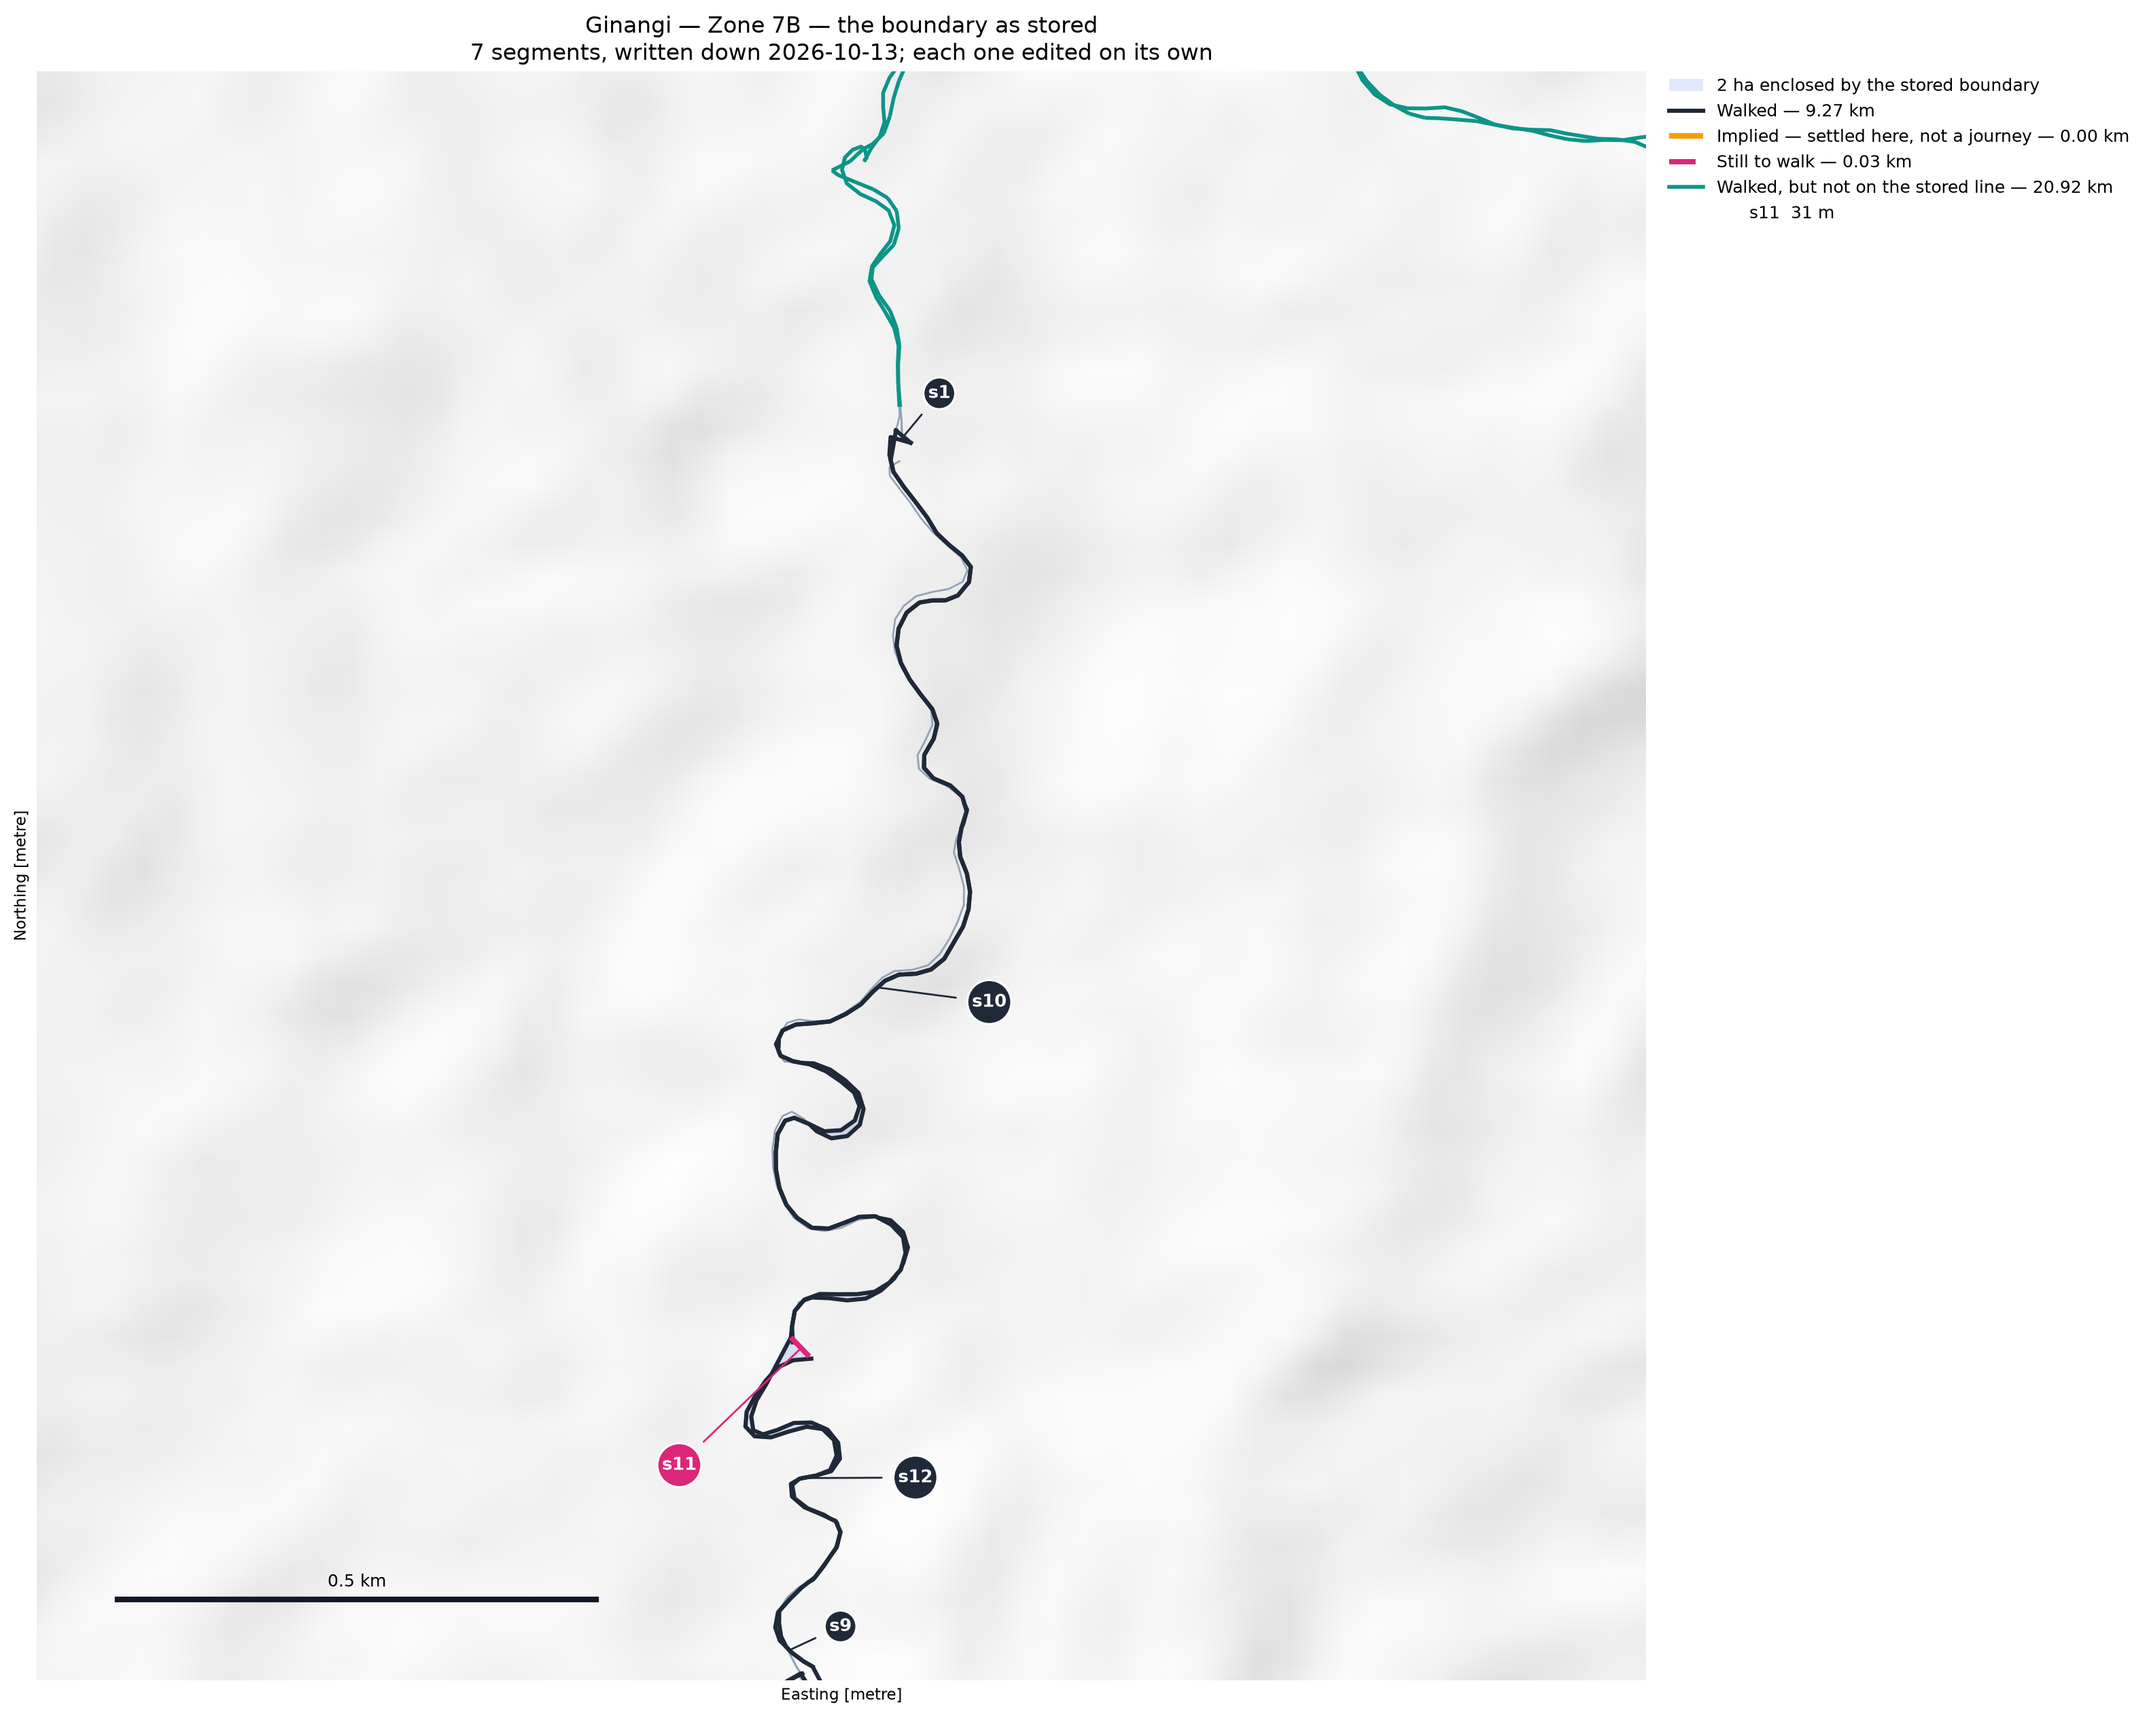
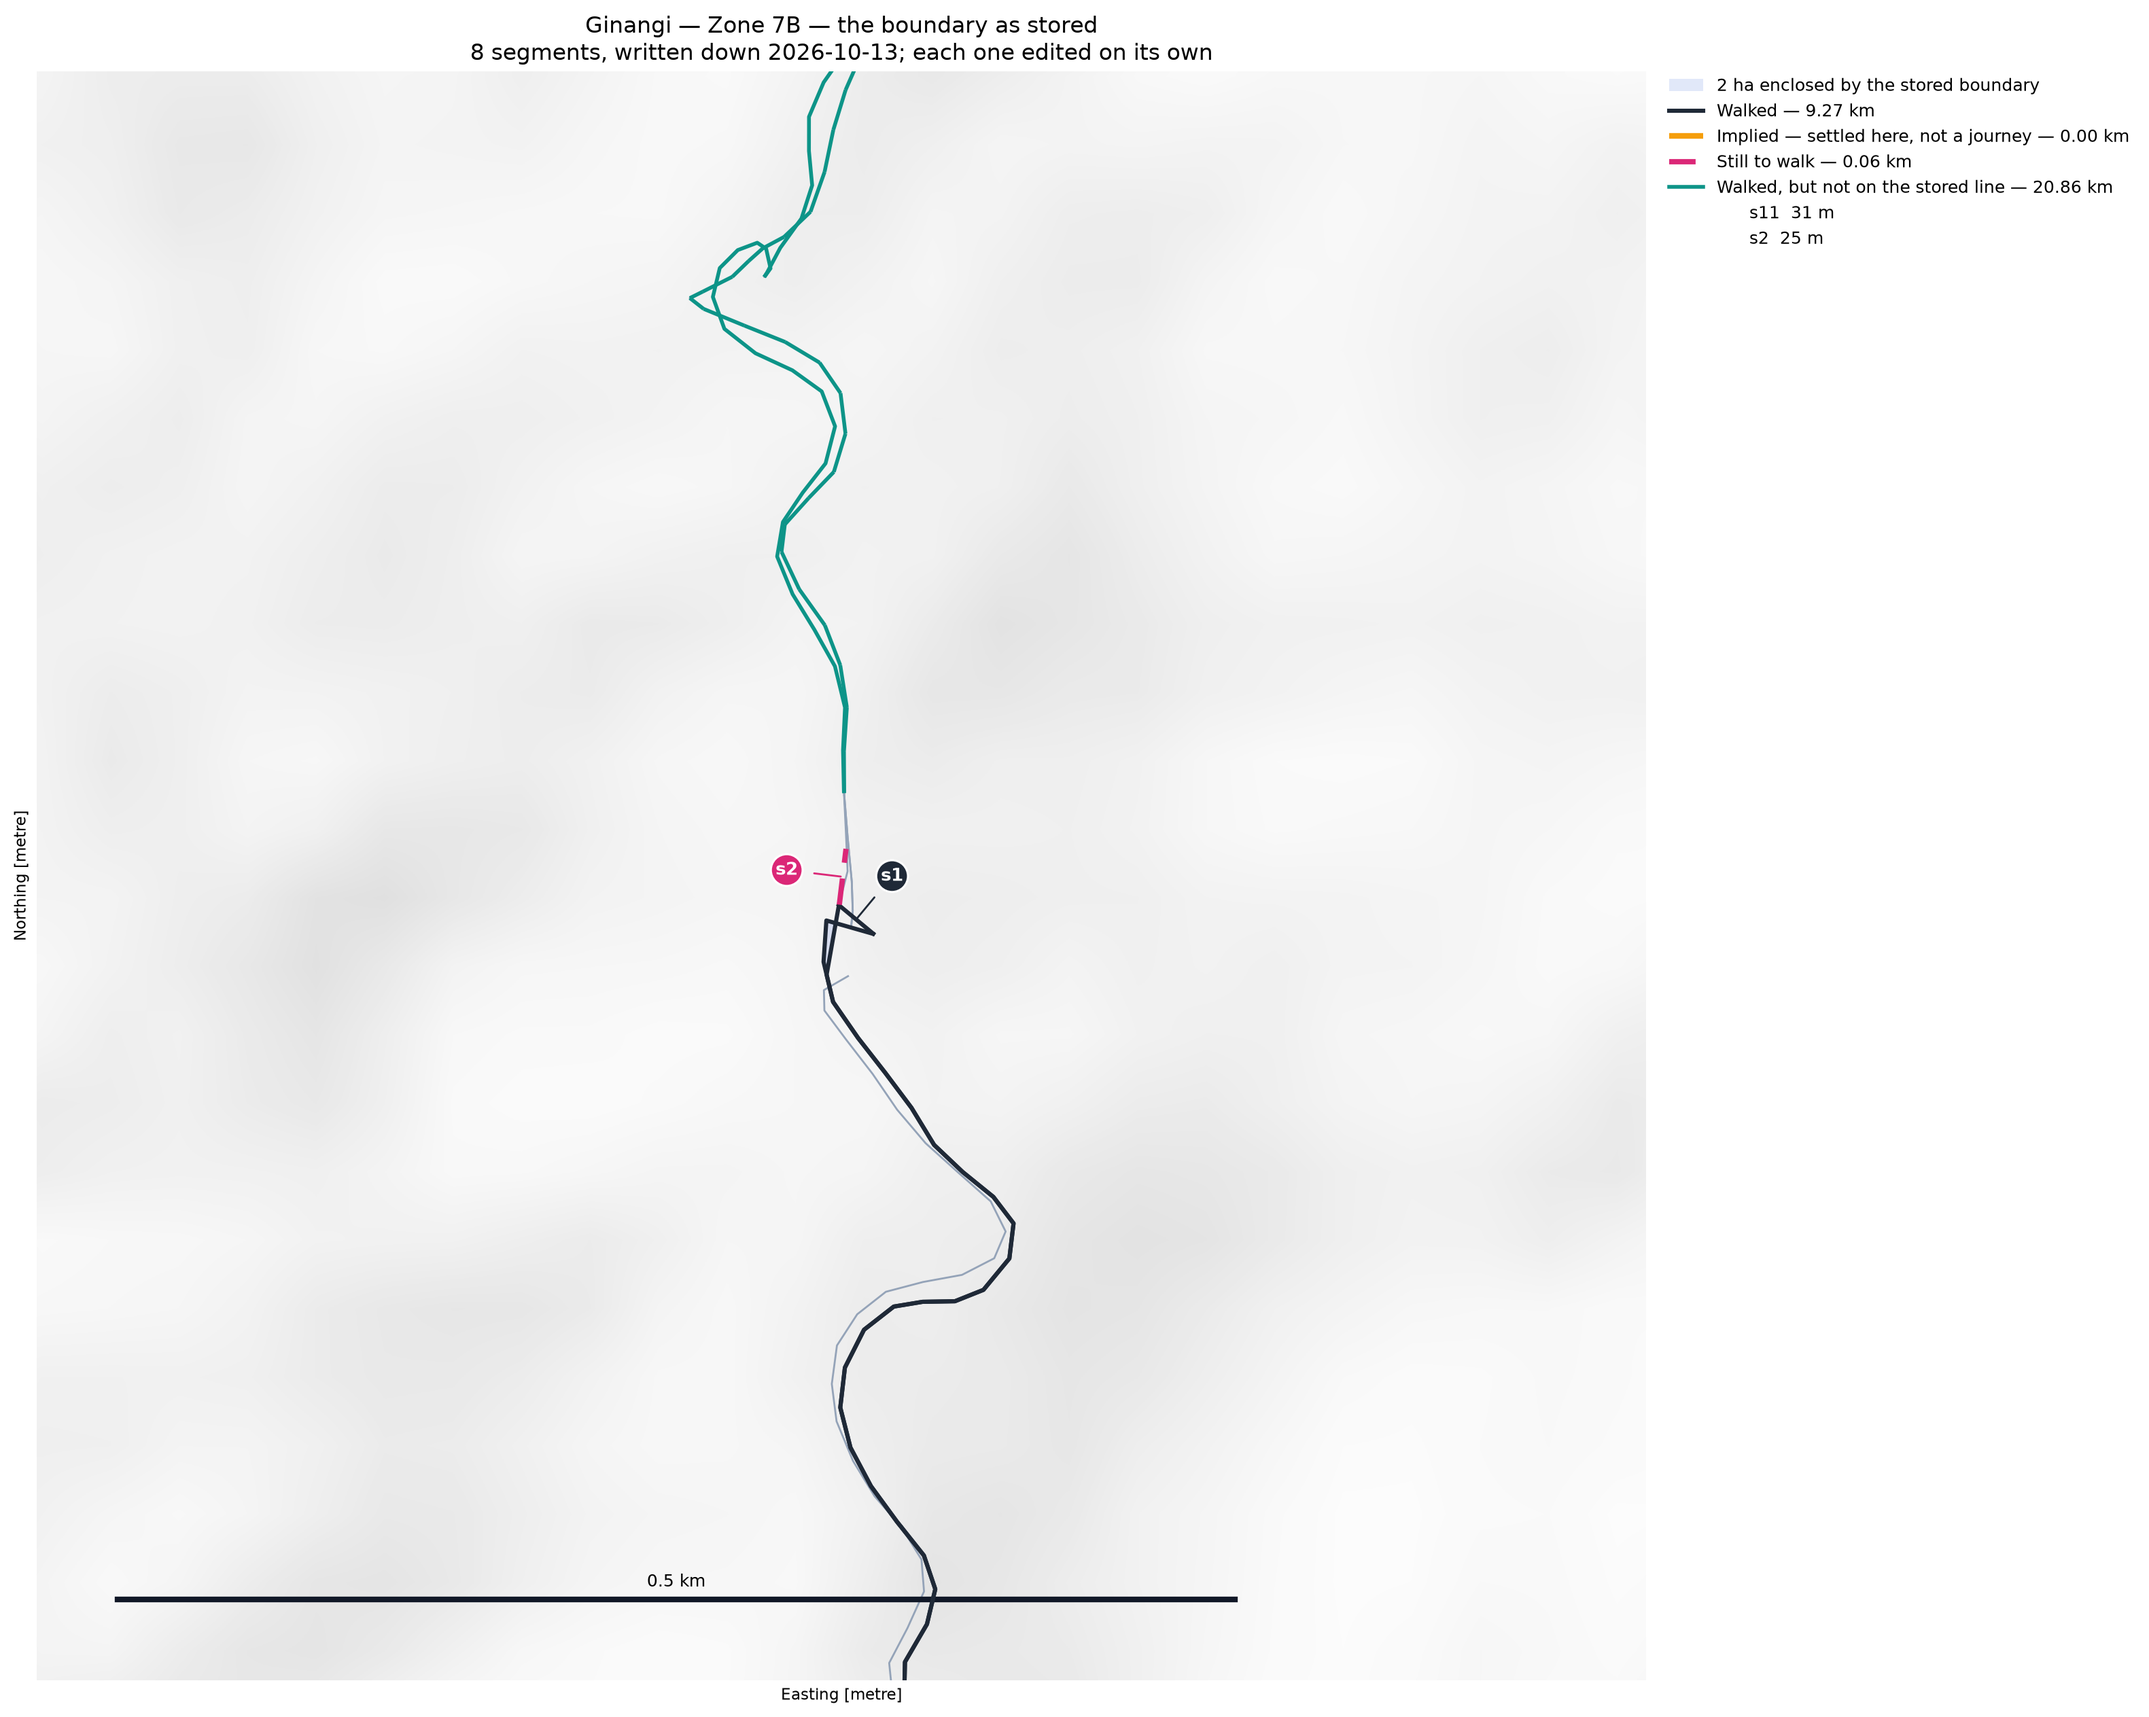
Ginangi: the 25 m gap the reviewer shaded, added as s2
Where s1 stops and the north-east circuit begins. boundary.py gains
--add WKT [--kind-of walked|implied|drawn] so a gap can be put in
without replacing anything.

Claude-Session: https://claude.ai/code/session_01K6X75MkuiGQ9rmgDZx45vk

diff --git a/scripts/boundary.py b/scripts/boundary.py
@@ -548,6 +548,11 @@ def main(argv: list[str] | None = None) -> int:
                         help="draw the stored boundary, segments numbered")
     parser.add_argument("--gpx", type=Path,
                         help="write the stored boundary out for a GPS")
+    parser.add_argument("--add", metavar="WKT",
+                        help="add a segment to the line")
+    parser.add_argument("--kind-of", default="drawn",
+                        choices=["walked", "implied", "drawn"],
+                        help="with --add: what the new segment is")
     parser.add_argument("--near", type=float, nargs=3,
                         metavar=("X", "Y", "METRES"),
                         help="with --map, frame on one place")
@@ -622,6 +627,22 @@ def main(argv: list[str] | None = None) -> int:
         save(book)
         print(f"{args.kind} ({seg['length_m']:.0f} m) {was} -> "
               f"{args.as_kind}. The line itself is untouched.\n")
+        print(summary(book))
+        return 0
+
+    if args.add:
+        line = shapely_wkt.loads(args.add)
+        used = {s["id"] for s in book["segments"]}
+        n = 1
+        while f"s{n}" in used:
+            n += 1
+        book["segments"].append({
+            "id": f"s{n}", "ring": 0, "kind": args.kind_of, "steward": "",
+            "length_m": round(line.length, 1), "wkt": line.wkt,
+            "history": [f"{date.today().isoformat()}: added"
+                        + (f" — {args.note}" if args.note else "")]})
+        save(book)
+        print(f"s{n} added, {line.length:.0f} m {args.kind_of}.\n")
         print(summary(book))
         return 0
 
